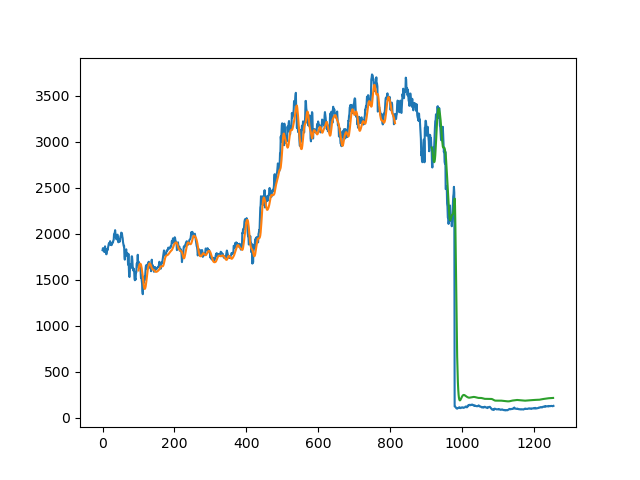
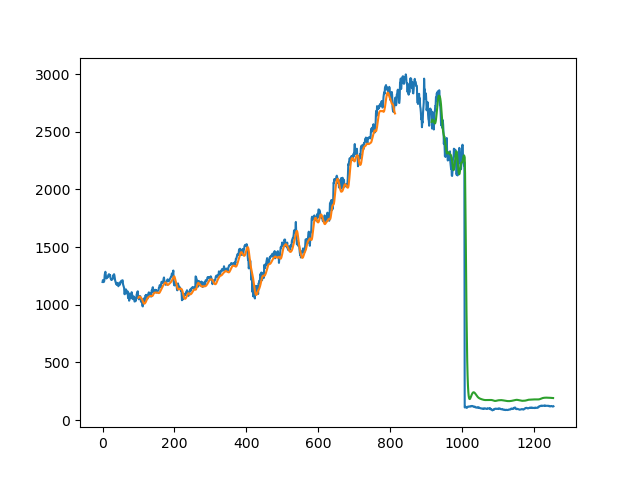
done

diff --git a/templates/base.html b/templates/base.html
@@ -11,12 +11,6 @@
         /* * {
             background-color: antiquewhite;
         } */
-        body{
-            background-image: url("/static/images/st.png");
-            background-size:1920px 1200px;
-            background-repeat: no-repeat;
-        }
-
         select{
             background-color: aliceblue;
             border: solid 2px black;

diff --git a/templates/predict.html b/templates/predict.html
@@ -11,6 +11,9 @@
     <div class="sec">
         <image src="{{url_for('static', filename='images/graph2.png')}}">
     </div>
+    <div class="sec">
+        <image src="{{url_for('static', filename='images/graph3.png')}}">
+    </div>
 
     <form action="/back" method="post">
         <button type="submit">GO BACK</button>

diff --git a/logic.py b/logic.py
@@ -35,7 +35,7 @@ def create_dataset(dataset, time_step=1):
 		dataY.append(dataset[i + time_step, 0])
 	return np.array(dataX), np.array(dataY)
 
-def stacked_lstm(X_train,y_train,X_test,y_test):
+def stacked_lstm(X_train,y_train,X_test,y_test,m):
     # model=Sequential()
     # model.add(LSTM(50,return_sequences=True,input_shape=(100,1)))
     # model.add(LSTM(50,return_sequences=True))
@@ -43,7 +43,7 @@ def stacked_lstm(X_train,y_train,X_test,y_test):
     # model.add(Dense(1))
     # model.compile(loss='mean_squared_error',optimizer='adam')
     # model.fit(X_train,y_train,validation_data=(X_test,y_test),epochs=100,batch_size=64,verbose=1)
-    with open('model_pickle_GOOGL','rb') as f:
+    with open(m,'rb') as f:
         model=pickle.load(f)
     return model
 
@@ -100,9 +100,13 @@ def predict(model, test_data, df1, scaler):
             lst_output.extend(yhat.tolist())
             i=i+1
 
-    df3=df1.tolist()
-    df3.extend(lst_output)
-    df3=scaler.inverse_transform(df3).tolist()
-    plt.plot(df3)
+    df2=df1.tolist()
+    df2.extend(lst_output)
+   
+    df2=scaler.inverse_transform(df2).tolist()
+    plt.plot(df2[len(df2)-30:])
     plt.savefig('static/images/graph2.png')
+    plt.close()
+    plt.plot(df2[len(df2)-100:])
+    plt.savefig('static/images/graph3.png')
     plt.close()

diff --git a/app.py b/app.py
@@ -25,7 +25,7 @@ def analyse():
         X_train =X_train.reshape(X_train.shape[0],X_train.shape[1] , 1)
         X_test = X_test.reshape(X_test.shape[0],X_test.shape[1] , 1)
 
-        model=logic.stacked_lstm(X_train,y_train,X_test,y_test)
+        model=logic.stacked_lstm(X_train,y_train,X_test,y_test, "model_pickle_"+txt)
 
         train_predict,test_predict=logic.training(model,X_train,X_test,scaler)
 
